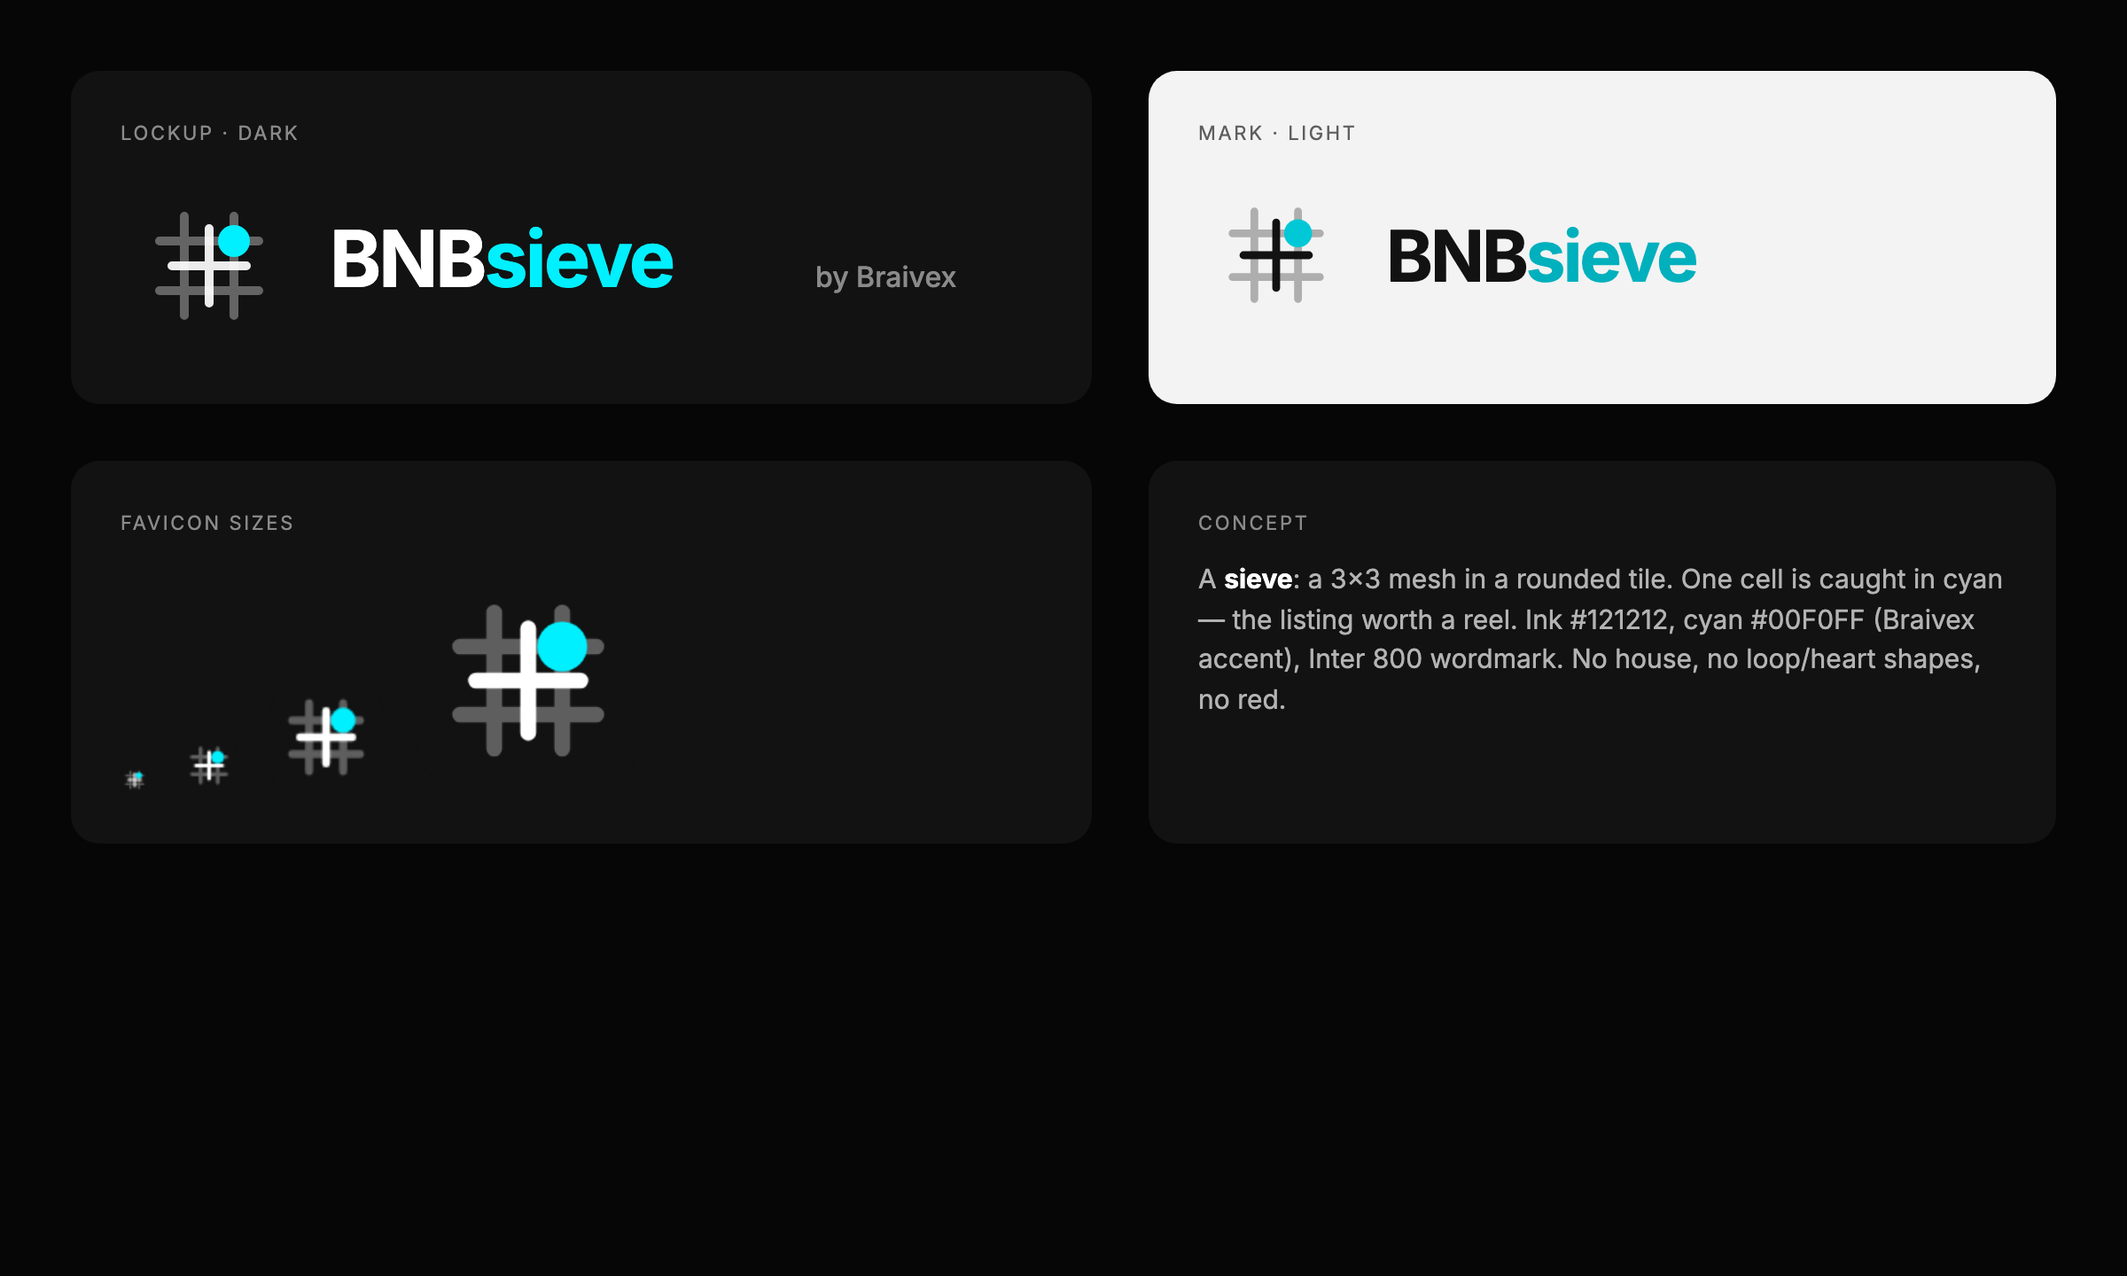
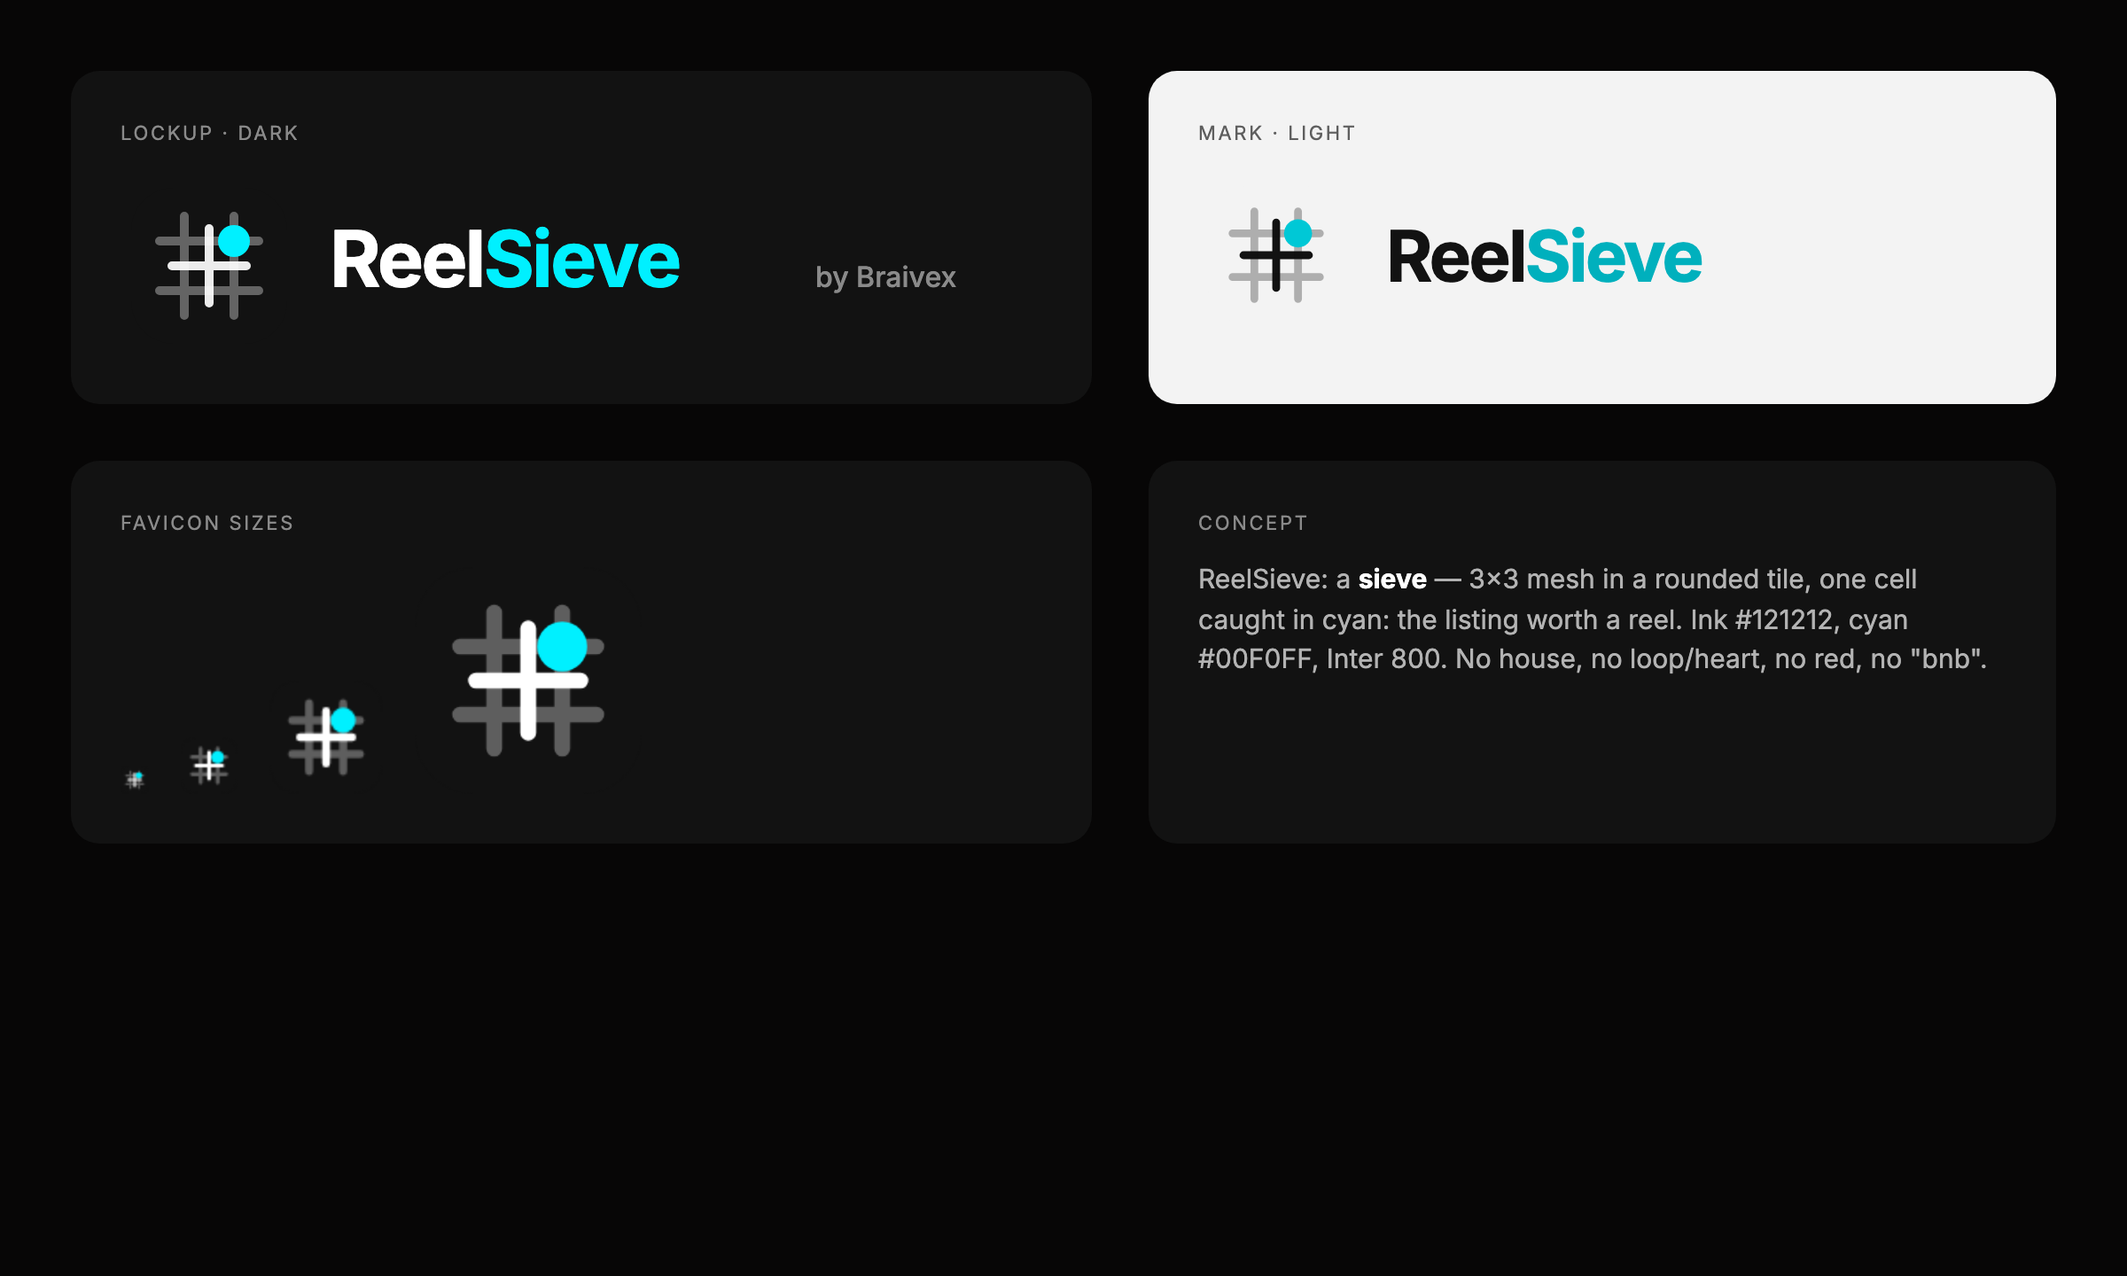
Rename to ReelSieve: app, brand assets, cookie, domain, docs

Changed region(s): [[0.5625, 0.4375, 0.9375, 0.5625], [0.1562, 0.1562, 0.3125, 0.25], [0.6562, 0.1562, 0.8125, 0.2188]]

diff --git a/app/templates/base.html b/app/templates/base.html
@@ -3,7 +3,7 @@
 <head>
   <meta charset="utf-8">
   <meta name="viewport" content="width=device-width, initial-scale=1">
-  <title>{% block title %}BNBsieve{% endblock %} · BNBsieve by Braivex</title>
+  <title>{% block title %}ReelSieve{% endblock %} · ReelSieve by Braivex</title>
   <link rel="icon" type="image/svg+xml" href="/static/brand/favicon.svg">
   <link rel="icon" type="image/x-icon" sizes="16x16 32x32 48x48" href="/static/brand/favicon.ico">
   <link rel="apple-touch-icon" sizes="180x180" href="/static/brand/icon-180.png">
@@ -25,8 +25,8 @@
 <body>
   <header class="site-header">
     <a class="brand" href="/">
-      <svg class="brand-mark" width="28" height="28" viewBox="0 0 100 100" role="img" aria-label="BNBsieve"><rect x="6" y="6" width="88" height="88" rx="24" fill="currentColor" fill-opacity=".08"/><g fill="none" stroke="currentColor" stroke-width="6" stroke-linecap="round"><path d="M29 50h42M50 29v42"/><path d="M22 36h56M22 64h56M36 22v56M64 22v56" stroke-opacity=".35"/></g><circle cx="64" cy="36" r="10" fill="var(--accent)"/></svg>
-      <span class="brand-word">BNB<span class="brand-accent">sieve</span></span>
+      <svg class="brand-mark" width="28" height="28" viewBox="0 0 100 100" role="img" aria-label="ReelSieve"><rect x="6" y="6" width="88" height="88" rx="24" fill="currentColor" fill-opacity=".08"/><g fill="none" stroke="currentColor" stroke-width="6" stroke-linecap="round"><path d="M29 50h42M50 29v42"/><path d="M22 36h56M22 64h56M36 22v56M64 22v56" stroke-opacity=".35"/></g><circle cx="64" cy="36" r="10" fill="var(--accent)"/></svg>
+      <span class="brand-word">Reel<span class="brand-accent">Sieve</span></span>
       <span class="brand-suffix">by Braivex</span>
     </a>
     <nav class="site-nav" aria-label="Primary">
@@ -46,7 +46,7 @@
   </main>
 
   <footer class="site-footer">
-    BNBsieve is a Braivex product · <a href="https://braivex.com" rel="noopener">braivex.com</a> · BNBsieve is an independent third party and is not endorsed by or associated with Airbnb, Inc. or its affiliates.
+    ReelSieve is a Braivex product · <a href="https://braivex.com" rel="noopener">braivex.com</a> · ReelSieve is an independent third party and is not endorsed by or associated with Airbnb, Inc. or its affiliates.
   </footer>
 
   <script src="/static/app.js" defer></script>

diff --git a/app/templates/settings.html b/app/templates/settings.html
@@ -21,7 +21,7 @@
 {% if is_admin %}
 <section class="card" id="users-card">
   <div class="section-head"><h2>Users</h2><span class="pill pill-skipped">Admin</span></div>
-  <p class="hint">People who can sign in to this BNBsieve. Admins can add or remove users and reset passwords.</p>
+  <p class="hint">People who can sign in to this ReelSieve. Admins can add or remove users and reset passwords.</p>
   <ul class="user-list" id="user-list"></ul>
   <div class="grid-3">
     <div class="field"><label for="nu-email">Email</label><input type="email" id="nu-email" placeholder="name@company.com" autocomplete="off"></div>
@@ -81,7 +81,7 @@
     <div class="grid-2">
       <div class="field"><label for="google_client_id">Client ID</label><input type="text" id="google_client_id" name="google_client_id" value="{{ s.google_client_id.value }}" placeholder="…apps.googleusercontent.com"></div>
       <div class="field"><label for="google_client_secret">Client secret</label><input type="password" id="google_client_secret" name="google_client_secret" value="" autocomplete="new-password" placeholder="{{ 'configured — leave blank to keep' if s.google_client_secret.configured else 'not set' }}"></div>
-      <div class="field"><label for="gdrive_folder">Drive folder name</label><input type="text" id="gdrive_folder" name="gdrive_folder" value="{{ s.gdrive_folder.value }}" placeholder="BNBsieves"></div>
+      <div class="field"><label for="gdrive_folder">Drive folder name</label><input type="text" id="gdrive_folder" name="gdrive_folder" value="{{ s.gdrive_folder.value }}" placeholder="ReelSieves"></div>
     </div>
   </section>
   <section class="card">

diff --git a/app/templates/forgot.html b/app/templates/forgot.html
@@ -5,7 +5,7 @@
   <section class="card login-card">
     <p class="eyebrow">Account recovery</p>
     <h1 class="login-title">Forgot your password?</h1>
-    <p class="sub">BNBsieve is self-hosted and doesn't send email, so recovery is done by whoever runs the server.</p>
+    <p class="sub">ReelSieve is self-hosted and doesn't send email, so recovery is done by whoever runs the server.</p>
     <ol class="steps">
       <li><strong>Another admin</strong> can sign in and set a new password for you in Settings → Users.</li>
       <li><strong>Server owner:</strong> set the environment variables <code>APP_USER</code> (your email) and <code>APP_PASSWORD</code> on the host (Railway → Variables, or <code>.env.local</code> locally), restart, sign in, then change your password in Settings and remove the variables.</li>

diff --git a/app/templates/login.html b/app/templates/login.html
@@ -4,7 +4,7 @@
 <section class="login-wrap">
   <section class="card login-card">
     <p class="eyebrow">{{ "First run" if setup else "Welcome back" }}</p>
-    <h1 class="login-title">{{ "Create the admin account" if setup else "Sign in to BNBsieve" }}</h1>
+    <h1 class="login-title">{{ "Create the admin account" if setup else "Sign in to ReelSieve" }}</h1>
     <p class="sub">{{ "No accounts exist on this installation yet. This first account becomes the admin." if setup else "Use the email and password you set up." }}</p>
     {% if notice %}<p class="hint hint-ok" role="status">{{ notice }}</p>{% endif %}
     <form method="post" action="{{ '/setup' if setup else '/login' }}" autocomplete="on" novalidate>

diff --git a/app/static/app.js b/app/static/app.js
@@ -1,4 +1,4 @@
-/* BNBsieve — small vanilla JS: theme toggle, job submit, job polling, host message, settings actions. */
+/* ReelSieve — small vanilla JS: theme toggle, job submit, job polling, host message, settings actions. */
 (function () {
   "use strict";
 

diff --git a/app/server.py b/app/server.py
@@ -12,7 +12,7 @@ HERE=Path(__file__).resolve().parent;ROOT=HERE.parent;ENV=ROOT/'.env.local';JOBS
 load_dotenv(ENV)
 if not os.getenv('PUBLIC_BASE_URL') and os.getenv('RAILWAY_PUBLIC_DOMAIN'):os.environ['PUBLIC_BASE_URL']='https://'+os.environ['RAILWAY_PUBLIC_DOMAIN']
 from app import pipeline,hostmsg,search as listing_search,gdrive,auth
-app=FastAPI(title='BNBsieve by Braivex');app.mount('/static',StaticFiles(directory=HERE/'static'),name='static')
+app=FastAPI(title='ReelSieve by Braivex');app.mount('/static',StaticFiles(directory=HERE/'static'),name='static')
 tpl=Jinja2Templates(directory=HERE/'templates');tpl.env.autoescape=True
 from starlette.middleware.base import BaseHTTPMiddleware
 PUBLIC_PREFIXES=('/static/','/media/','/oauth/google/callback','/favicon.ico')
@@ -164,17 +164,17 @@ def reel_link_for(j):
     return j.get('drive_link') or None
 def search_phrase(j):
     L=j.get('listing') or {};title=re.split(r'\s[|·-]\s',(L.get('title') or ''))[0].strip();city=(L.get('city') or '').strip()
-    return ' '.join(x for x in [title,city,'video walkthrough BNBsieve'] if x).strip() or 'BNBsieve'
+    return ' '.join(x for x in [title,city,'video walkthrough ReelSieve'] if x).strip() or 'ReelSieve'
 def finalize_message(j):
     link=reel_link_for(j);msg=(j.get('message') or default_message());L=j.get('listing') or {}
-    if '{reel_link}' in msg and '{search_phrase}' not in msg and 'BNBsieve' not in msg:msg=default_message()   # legacy link-based template → link-free default
+    if '{reel_link}' in msg and '{search_phrase}' not in msg and 'ReelSieve' not in msg:msg=default_message()   # legacy link-based template → link-free default
     host=(L.get('host') or '').strip();msg=msg.replace('{host_name}',host if host else 'there').replace('Hi there!','Hi!')
     msg=msg.replace('{listing_title}',L.get('title') or 'your listing').replace('{city}',L.get('city') or '').replace('{search_phrase}',search_phrase(j))
     return msg.replace('{reel_link}',link) if link else msg.replace('{reel_link}','(reel link not available yet)')
 def enrich(j):
     """Derived, non-persisted fields for the UI."""
     j=dict(j);lid=(j.get('listing') or {}).get('id') or (re.search(r'/rooms/(\d+)',j.get('url','')) or [None,None])[1]
-    j.update(drive_fields(j));j['contact_url']=hostmsg.contact_url(lid) if lid else None;j['reel_link']=reel_link_for(j);j['search_phrase']=search_phrase(j);j['youtube_title']=search_phrase(j).replace(' BNBsieve',' — by BNBsieve');j['message_final']=finalize_message(j);return j
+    j.update(drive_fields(j));j['contact_url']=hostmsg.contact_url(lid) if lid else None;j['reel_link']=reel_link_for(j);j['search_phrase']=search_phrase(j);j['youtube_title']=search_phrase(j).replace(' ReelSieve',' — by ReelSieve');j['message_final']=finalize_message(j);return j
 def run_job(jid,url,ai_motion,renderer='v2'):
     j=_jobs[jid];steps=['Fetching','Reviews','Downloaded','Audit','AI motion plan','Seedance','Estimating depth','Rendering','Rendered','Uploading']
     def cb(msg):

diff --git a/app/pipeline.py b/app/pipeline.py
@@ -1,5 +1,5 @@
 #!/usr/bin/env python3
-"""BNBsieve pipeline: Airbnb URL -> facts + photos + reviews -> 30 s cinematic reel (-> optional Seedance clips) -> email.
+"""ReelSieve pipeline: Airbnb URL -> facts + photos + reviews -> 30 s cinematic reel (-> optional Seedance clips) -> email.
 CLI: python app/pipeline.py <airbnb_url> <out_dir> [--email x@y] [--ai-motion]"""
 import re,os,sys,json,html,subprocess,shutil,time,smtplib,base64,mimetypes
 from pathlib import Path
@@ -252,7 +252,7 @@ def render(m,workdir,out,cb=None,renderer='v2'):
     log(cb,f'Rendered {dur:.1f}s reel');return dur,small
 # ---------------- email ----------------
 def send_email(to,subject,body_html,attach=None,link=None,cb=None):
-    frm=os.getenv('FROM_EMAIL');name=os.getenv('FROM_NAME','Braivex BNBsieve');sg=os.getenv('SENDGRID_API_KEY')
+    frm=os.getenv('FROM_EMAIL');name=os.getenv('FROM_NAME','Braivex ReelSieve');sg=os.getenv('SENDGRID_API_KEY')
     if not frm:return 'skipped','FROM_EMAIL not set'
     if sg:
         payload={'personalizations':[{'to':[{'email':to}]}],'from':{'email':frm,'name':name},'subject':subject,'content':[{'type':'text/html','value':body_html}]}
@@ -275,7 +275,7 @@ def email_html(d,link,dur):
     return f"""<div style="font-family:Assistant,system-ui,sans-serif;background:#070606;color:#fff;padding:32px"><p style="letter-spacing:.12em;font-size:11px;color:#8a8a8a;margin:0 0 8px">BRAIVEX · LISTING REEL</p>
 <h1 style="margin:0 0 12px;font-size:24px">{html.escape(d['title'])}</h1><p style="color:#b3b3b3;margin:0 0 20px">{html.escape(d.get('city',''))} · {d.get('rating','')}★ from {d.get('count','')} reviews · {dur:.0f}s reel</p>
 {'<p><a href="'+link+'" style="background:#00f0ff;color:#04070a;padding:12px 18px;border-radius:10px;font-weight:700;text-decoration:none">Watch the 1080p reel</a></p>' if link else ''}
-<p style="color:#8a8a8a;font-size:12px">A 720p copy is attached when under 20 MB. Made with BNBsieve, a Braivex product · braivex.com</p></div>"""
+<p style="color:#8a8a8a;font-size:12px">A 720p copy is attached when under 20 MB. Made with ReelSieve, a Braivex product · braivex.com</p></div>"""
 # ---------------- orchestration ----------------
 def run(url,out_dir,email=None,ai_motion=False,cb=None,public_base=None,renderer='v2'):
     if ai_motion:renderer='v3'   # AI-motion assembly = hard cuts in the full-bleed renderer

diff --git a/app/hostmsg.py b/app/hostmsg.py
@@ -7,7 +7,7 @@ Form verified 19 Sep 2026 on /contact_host/<id>/send_message: textbox "Message t
 import os,re,subprocess,threading,time,shutil
 from pathlib import Path
 ROOT=Path(__file__).resolve().parent.parent;PROFILE=ROOT/'.listing-reel'/'airbnb-profile';PROFILE.mkdir(parents=True,exist_ok=True)
-DEFAULT_MESSAGE=("Hi {host_name}! I run BNBsieve (by Braivex) — we turn a listing's own photos and reviews into a short cinematic video, and I made one for \"{listing_title}\" as a free sample.\n\n"
+DEFAULT_MESSAGE=("Hi {host_name}! I run ReelSieve (by Braivex) — we turn a listing's own photos and reviews into a short cinematic video, and I made one for \"{listing_title}\" as a free sample.\n\n"
                  "Airbnb doesn't let me send links here, so to watch it just search YouTube for: {search_phrase}\n\n"
                  "If you'd like the full-resolution file, a version for Instagram, or one for your other properties, tell me where to send it and it's yours.")
 # tokens: {host_name} {listing_title} {city} {search_phrase} {reel_link}  — default template deliberately has no URL (Airbnb filters links in pre-booking messages)

diff --git a/app/auth.py b/app/auth.py
@@ -1,11 +1,11 @@
-"""Auth for BNBsieve: multi-user accounts (email + password, salted PBKDF2), HMAC-signed session cookie, CSRF tokens,
+"""Auth for ReelSieve: multi-user accounts (email + password, salted PBKDF2), HMAC-signed session cookie, CSRF tokens,
 login rate limiting. Store: AUTH_PATH (default .listing-reel/auth.json; /data/auth.json on Railway).
 Env override for emergencies/reset: APP_USER + APP_PASSWORD (grants that login without touching the store)."""
 import os,json,hmac,hashlib,secrets,time,base64,re,threading
 from pathlib import Path
 ROOT=Path(__file__).resolve().parent.parent
 AUTH_PATH=Path(os.getenv('AUTH_PATH') or (ROOT/'.listing-reel'/'auth.json'))
-COOKIE='bnbsieve_session';LONG_TTL=int(os.getenv('SESSION_TTL_DAYS','30'))*86400;SHORT_TTL=12*3600
+COOKIE='reelsieve_session';LONG_TTL=int(os.getenv('SESSION_TTL_DAYS','30'))*86400;SHORT_TTL=12*3600
 _lock=threading.Lock();_fails={}   # ip -> [timestamps]
 EMAIL=re.compile(r'^[^@\s]+@[^@\s]+\.[^@\s]+$')
 def _load():

diff --git a/README.md b/README.md
@@ -1,4 +1,4 @@
-# BNBsieve — by Braivex
+# ReelSieve — by Braivex
 
 Paste an Airbnb listing URL → a ~30 s cinematic 16:9 reel (intro, trust card, depth-parallax walkthrough, real review card, outro "by Braivex.com") → handed to the **listing host through Airbnb messaging** (pre-filled from your own Airbnb account; you press Send).
 
@@ -62,8 +62,8 @@ Host message: "Message host on Airbnb" copies the message and opens the contact 
 Gemini download quirk: the "Download full-sized image" button only fires when the image is scrolled into view and hovered first.
 
 ## Deployment
-- GitHub: https://github.com/moose9200/BNBsieve (private, commits by Hemant Kumar Sain)
-- Railway: project `listing-reel` in workspace "Hemant Kumar Sain's Projects", service `listing-reel`, volume `/data` (jobs + HF model cache), public URL https://bnbsieve-production.up.railway.app
+- GitHub: https://github.com/moose9200/ReelSieve (private, commits by Hemant Kumar Sain)
+- Railway: project `listing-reel` in workspace "Hemant Kumar Sain's Projects", service `listing-reel`, volume `/data` (jobs + HF model cache), public URL https://reelsieve-production.up.railway.app
 - Env vars on Railway: `HF_KEY`, `JOBS_DIR=/data/jobs`, `HF_HOME=/data/hf-cache`; `PUBLIC_BASE_URL` derives from `RAILWAY_PUBLIC_DOMAIN` so reel links are public without a tunnel.
 - Deploy: `railway up --detach --ci` from this folder (Dockerfile build, ~10 min: CPU torch + Chromium). Encoding uses libx264 off macOS.
 
@@ -72,7 +72,7 @@ Gemini download quirk: the "Download full-sized image" button only fires when th
 
 ## Login (19 Sep 2026)
 The whole app is gated. First visit → `/setup` creates the admin login (stored salted PBKDF2 in `.listing-reel/auth.json`, `/data/auth.json` on Railway). Session = HMAC-signed cookie, 30 days. `/logout`, change password in Settings. Env override: `APP_USER` / `APP_PASSWORD` / `SESSION_SECRET`. Public paths: `/static`, `/media` (shared reel files), `/healthz`, OAuth callback.
-Local service: LaunchAgent `com.braivex.bnbsieve`.
+Local service: LaunchAgent `com.braivex.reelsieve`.
 
 ## AI camera motion (property-video-ai method, 19 Sep 2026)
 `app/aimotion.py` — audit → author → generate → assemble.

diff --git a/brand/README.md b/brand/README.md
@@ -1,4 +1,4 @@
-# BNBsieve brand (19 Sep 2026)
+# ReelSieve brand (19 Sep 2026)
 
 Mark: a sieve — 3×3 mesh in a rounded tile, one cell "caught" in Braivex cyan (#00F0FF). Ink #121212. Wordmark: Inter 800, "BNB" ink + "sieve" cyan.
 Deliberately avoided: house/roof glyphs (generic, used by Zillow/Trulia/Vrbo-type marks), Airbnb's Bélo (looped A/heart), Airbnb Rausch red (#FF5A5F), any pin/map marker.
@@ -6,7 +6,7 @@ Deliberately avoided: house/roof glyphs (generic, used by Zillow/Trulia/Vrbo-typ
 Files: mark.svg (dark), mark-light.svg, lockup.svg, favicon.svg, favicon.ico (16/32/48/64), icon-*.png (16–512), brand-sheet.png.
 
 Research (19 Sep 2026):
-- Web: no existing "BNBsieve" / "BNB sieve" product, company or handle found.
-- Domains: bnbsieve.com, .ai, .io unregistered (whois); .co.uk lookup returned nothing conclusive — check at Nominet.
+- Web: no existing "ReelSieve" / "BNB sieve" product, company or handle found.
+- Domains: reelsieve.com, .ai, .io unregistered (whois); .co.uk lookup returned nothing conclusive — check at Nominet.
 - Registers: UK IPO / USPTO / EUIPO online search not reachable from this session — run a 5-minute check on each before spending on the brand.
 - Airbnb Trademark Guidelines (https://www.airbnb.com/help/article/3233) prohibit third parties using "bnb" in business/product names and domains (examples: "Sunbnb", "BNB Teacher", "nicebnb.com"), the Bélo, and prominent Rausch. They require the disclosure: "[name] is an independent third party and is not endorsed by or associated with Airbnb, Inc. or its affiliates" — now in the app footer.
